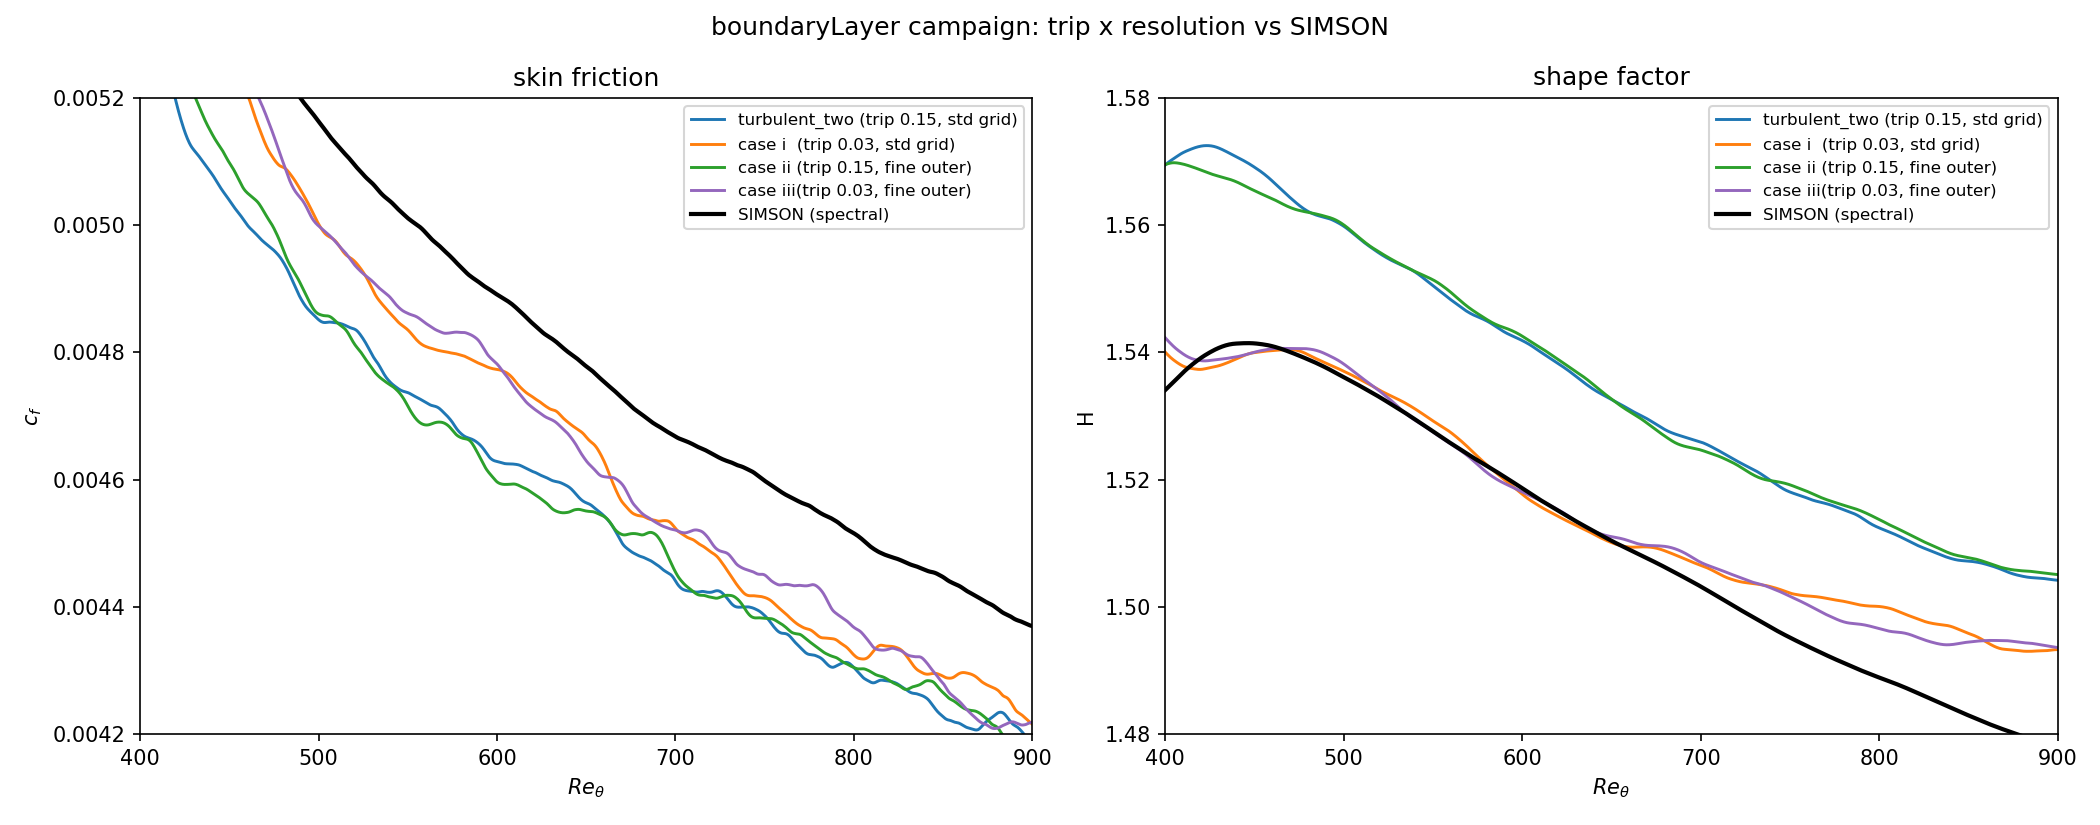
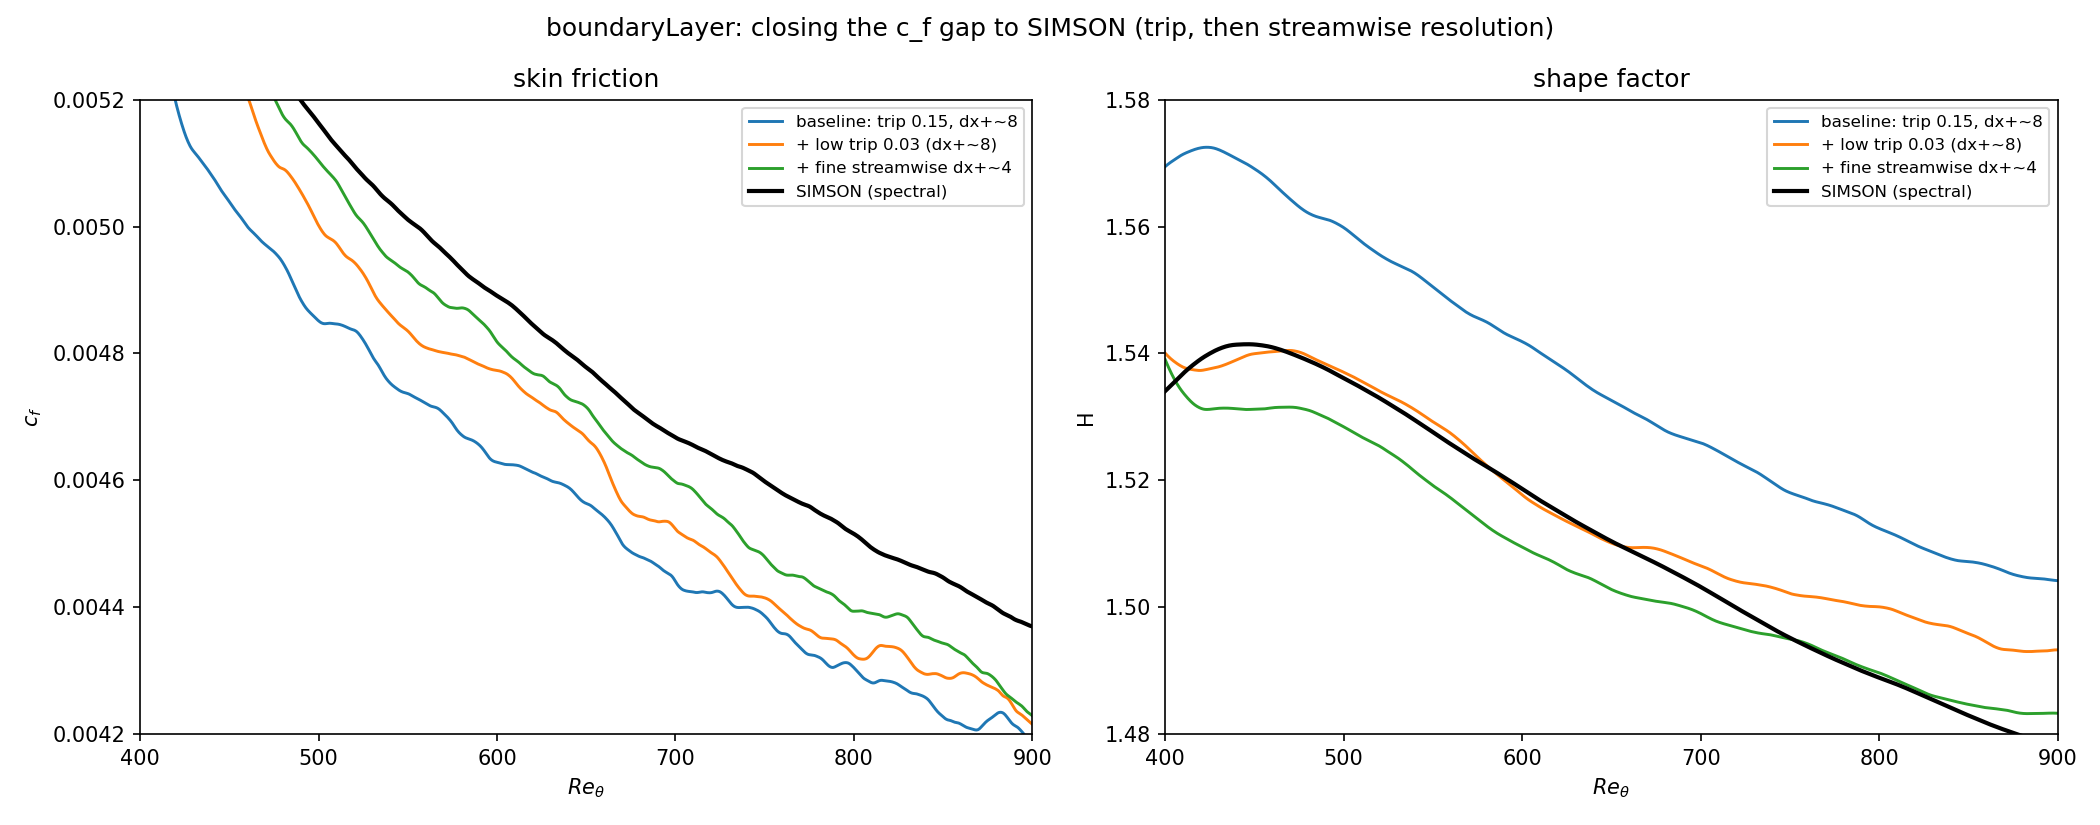
campaign_summary: clean 3-case final comparison (baseline -> low trip -> fine x) vs SIMSON
Drop the removed wall-normal cases; show the two fixes that close the c_f gap:
baseline (trip 0.15, dx+~8, -4.8%) -> +low trip (dx+~8, -3.5%) -> +fine streamwise
(dx+~4, -1.6%). H: baseline high, both low-trip cases match SIMSON.

diff --git a/tutorials/turbulentBoundaryLayer/campaign_summary.py b/tutorials/turbulentBoundaryLayer/campaign_summary.py
@@ -1,6 +1,8 @@
 #!/usr/bin/env python3
-"""Campaign summary: c_f(Re_theta) and H(Re_theta) for the four boundaryLayer
-cases (trip x resolution 2x2) vs the SIMSON spectral reference."""
+"""Campaign summary: c_f(Re_theta) and H(Re_theta) vs the SIMSON spectral
+reference, showing the two fixes that close the gap -- reducing the (too
+aggressive) trip 0.15->0.03, then refining the streamwise grid Dx+ 8->4 (to
+match Dz+). The wall-normal-resolution experiments (removed) were a minor lever."""
 import h5py
 import numpy as np
 import matplotlib
@@ -24,10 +26,9 @@ def curves(fn):
 
 
 cases = [
-    ("turbulent_two (trip 0.15, std grid)", "turbulent_two/production_stats.h5", "C0"),
-    ("case i  (trip 0.03, std grid)", "turbulent_lowtrip/production_stats.h5", "C1"),
-    ("case ii (trip 0.15, fine outer)", "turbulent_finewall/production_stats.h5", "C2"),
-    ("case iii(trip 0.03, fine outer)", "turbulent_lowtrip_finewall/production_stats.h5", "C4"),
+    ("baseline: trip 0.15, dx+~8", "turbulent_two/production_stats.h5", "C0"),
+    ("+ low trip 0.03 (dx+~8)", "turbulent_lowtrip/production_stats.h5", "C1"),
+    ("+ fine streamwise dx+~4", "lowtrip_srdgridy_finex/production_stats.h5", "C2"),
 ]
 s = h5py.File("turbulent_two/passivewall.hdf5", "r")
 ys = s["mesh"]["y"][...]; us = s["mean"]["u"][...]; Ues = us[:, -1]
@@ -49,6 +50,6 @@ ax[0].plot(rs[val][o], cfs[val][o], "k-", lw=2, label="SIMSON (spectral)")
 ax[1].plot(rs[val][o], Hs[val][o], "k-", lw=2, label="SIMSON (spectral)")
 ax[0].set_xlim(400, 900); ax[0].set_ylim(0.0042, 0.0052); ax[0].set_xlabel(r"$Re_\theta$"); ax[0].set_ylabel(r"$c_f$"); ax[0].legend(fontsize=8); ax[0].set_title("skin friction")
 ax[1].set_xlim(400, 900); ax[1].set_ylim(1.48, 1.58); ax[1].set_xlabel(r"$Re_\theta$"); ax[1].set_ylabel("H"); ax[1].legend(fontsize=8); ax[1].set_title("shape factor")
-fig.suptitle("boundaryLayer campaign: trip x resolution vs SIMSON")
+fig.suptitle("boundaryLayer: closing the c_f gap to SIMSON (trip, then streamwise resolution)")
 fig.tight_layout(); fig.savefig("campaign_summary.png", dpi=150)
 print("wrote campaign_summary.png")
